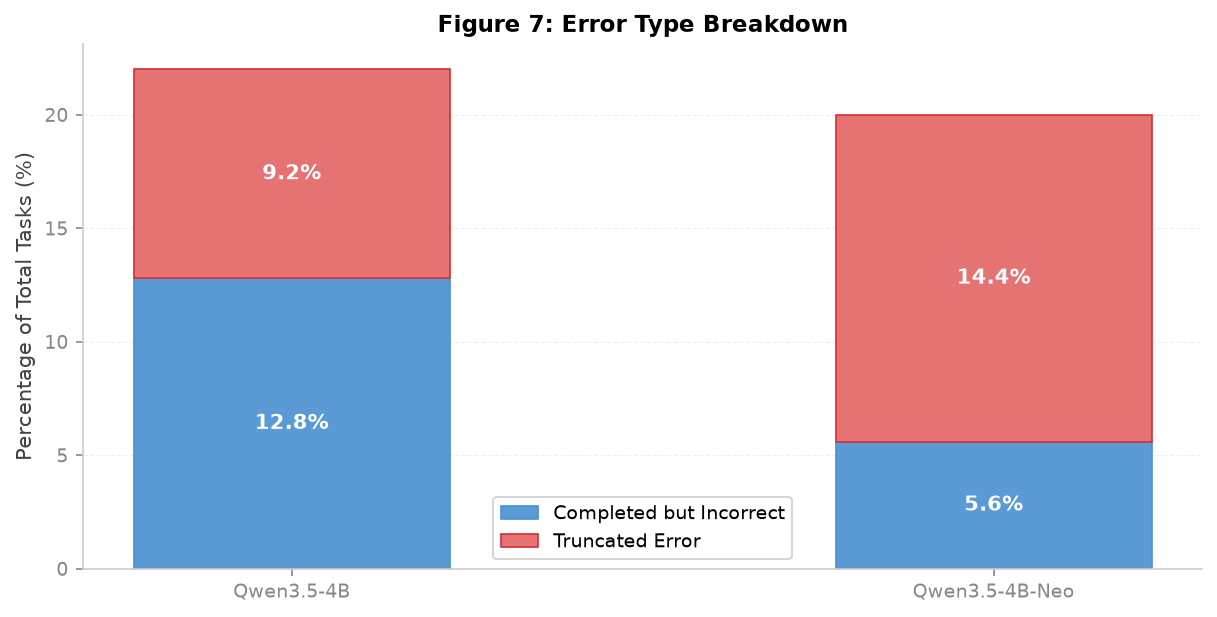
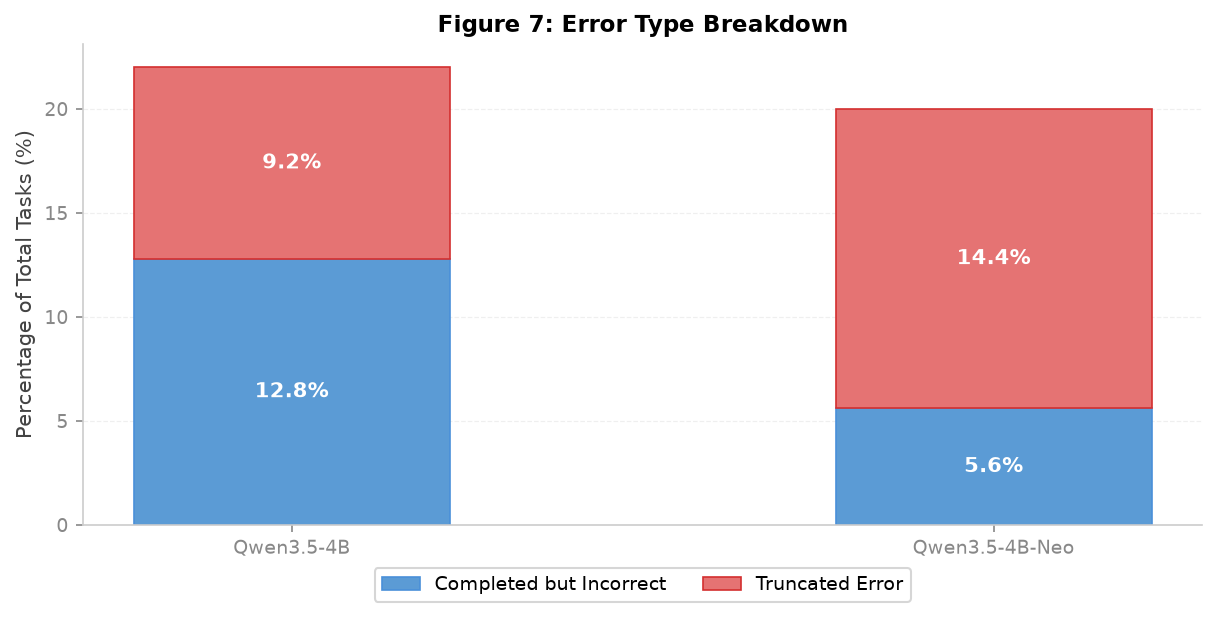
fix: move Figure 7 legend to bottom center to match reference
The legend in Figure 7 (Error Breakdown) was positioned in the middle
of the chart area. Moved it to bottom center below the x-axis labels
to match the reference image style.

diff --git a/src/thinker/eval/plotter.py b/src/thinker/eval/plotter.py
@@ -523,7 +523,10 @@ class ComprehensiveAcademicPlotter:
 
         ax.set_ylabel("Percentage of Total Tasks (%)")
         ax.set_title("Figure 7: Error Type Breakdown", fontweight="bold")
-        ax.legend(frameon=True, edgecolor="#CCCCCC")
+        ax.legend(
+            frameon=True, edgecolor="#CCCCCC",
+            loc="lower center", bbox_to_anchor=(0.5, -0.18), ncol=2,
+        )
         self._style_ax(ax)
 
         for i in range(len(models)):
